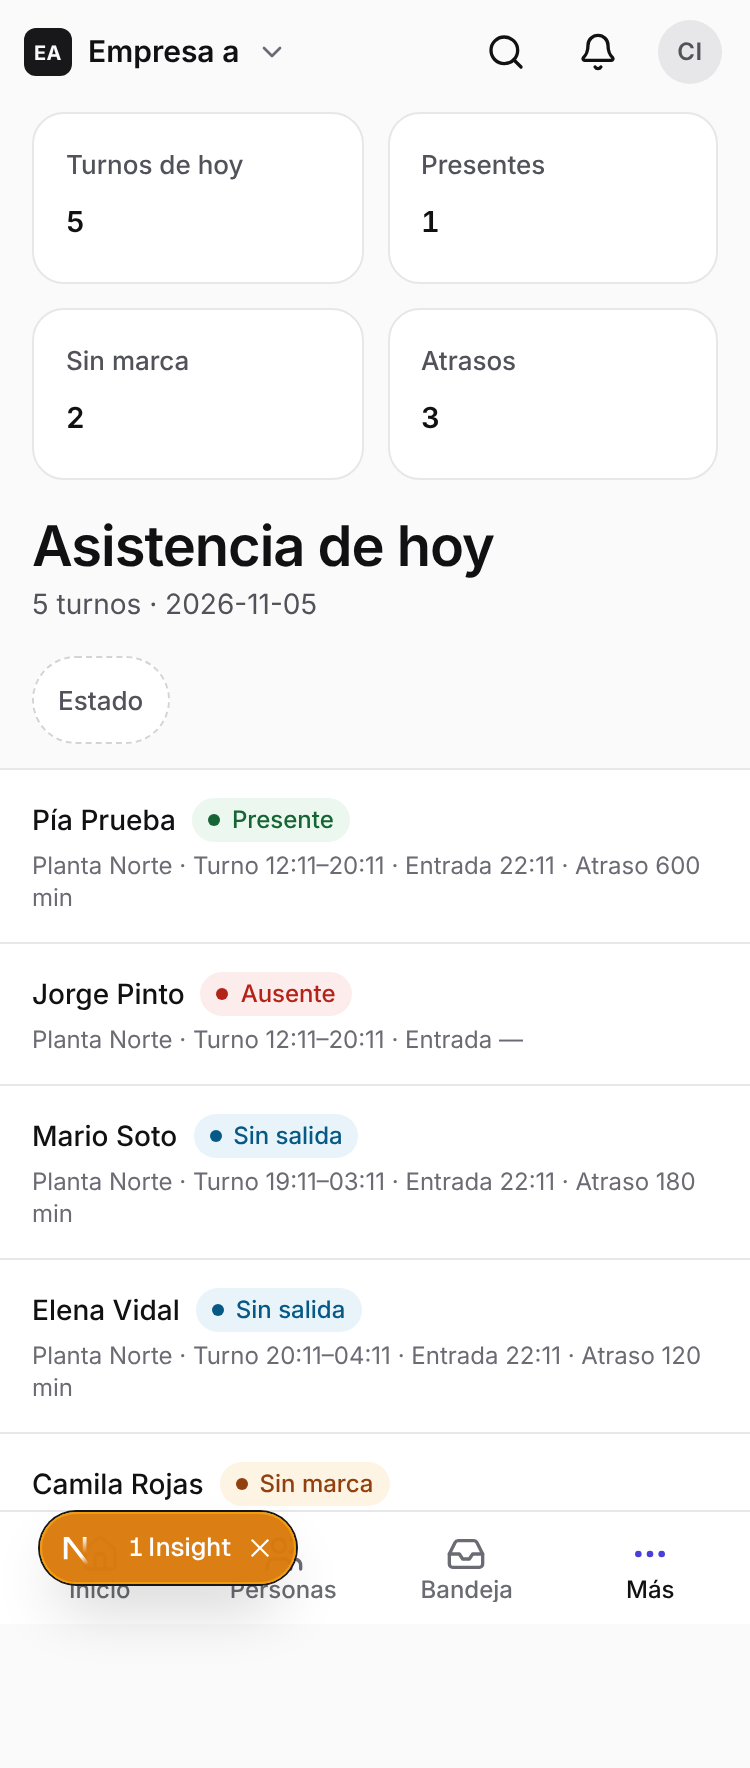
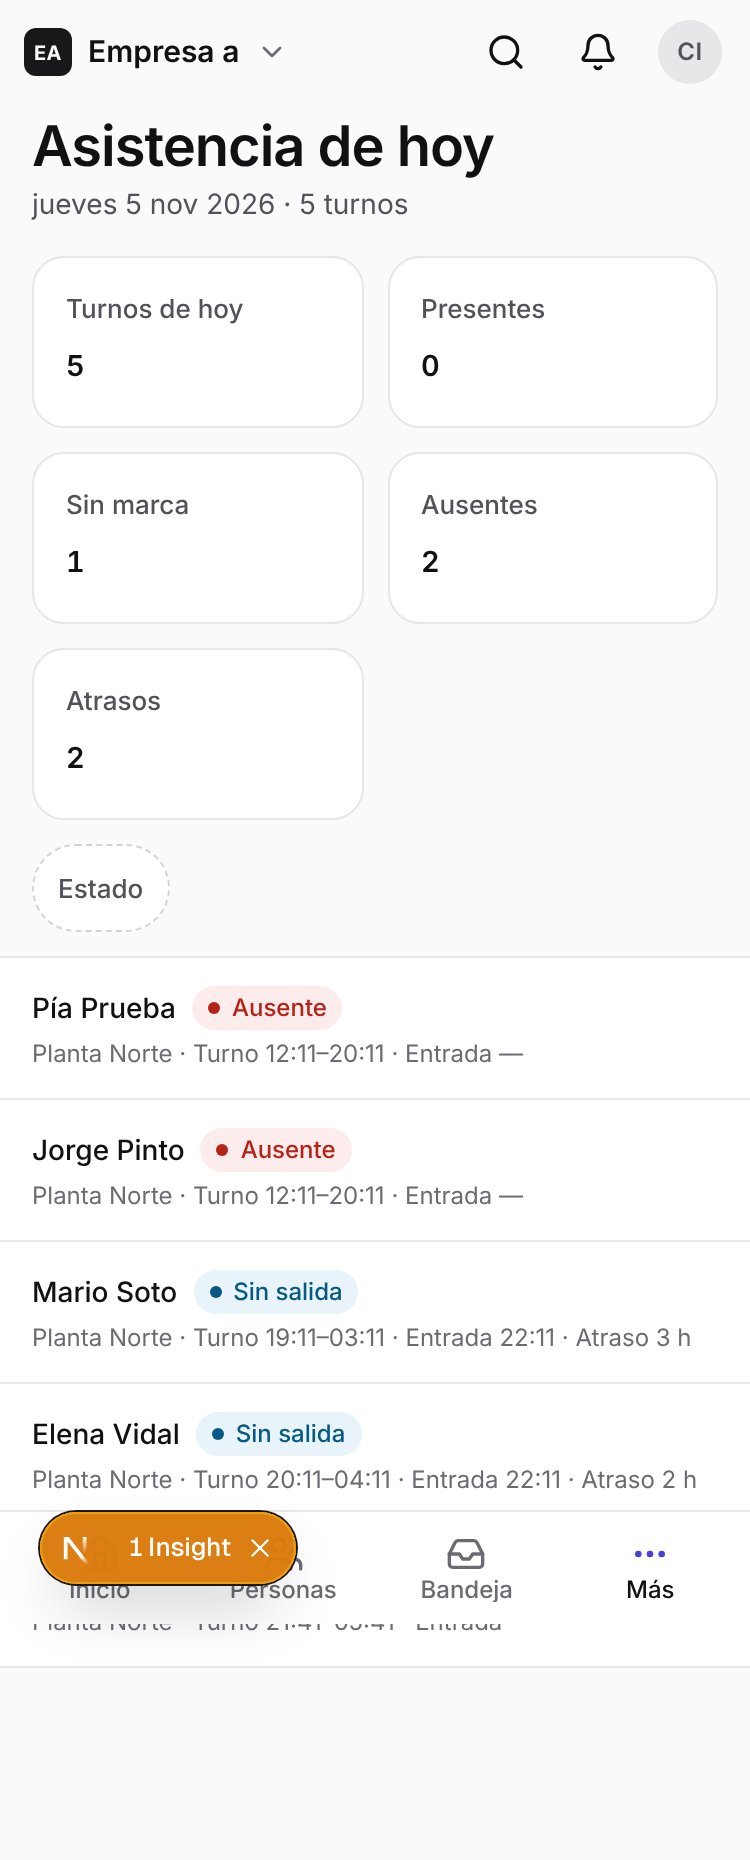
asistencia: ajustes del OK visual de «Asistencia de hoy» (tarjetas separadas, título arriba, fecha larga, atraso en horas, entrada tras el fin del turno no cuenta)
Claude-Session: https://claude.ai/code/session_012Xsh3qDJsFCJenV1QnWYCq

diff --git a/apps/web/app/(erp)/asistencia/page.tsx b/apps/web/app/(erp)/asistencia/page.tsx
@@ -28,6 +28,36 @@ const ESTADOS: Record<string, { etiqueta: string; tono: "success" | "warning" | 
   sin_turno: { etiqueta: "Sin turno", tono: "neutro" },
 };
 const OPCIONES = Object.entries(ESTADOS).filter(([k]) => k !== "sin_turno").map(([valor, e]) => ({ valor, etiqueta: e.etiqueta }));
+function Kpis({ r, className }: { r: Datos["resumen"]; className: string }) {
+  return (
+    <div className={className}>
+      <KpiTile etiqueta="Turnos de hoy" valor={String(r.turnos)} />
+      <KpiTile etiqueta="Presentes" valor={String(r.presentes)} />
+      <KpiTile etiqueta="Sin marca" valor={String(r.sinMarca)} />
+      <KpiTile etiqueta="Ausentes" valor={String(r.ausentes)} />
+      <KpiTile etiqueta="Atrasos" valor={String(r.atrasos)} />
+    </div>
+  );
+}
+
+/** «jueves 5 nov 2026» en la zona de la empresa. */
+function fechaLarga(iso: string, zona: string): string {
+  const p = Object.fromEntries(
+    new Intl.DateTimeFormat("es-CL", { weekday: "long", day: "numeric", month: "short", year: "numeric", timeZone: zona })
+      .formatToParts(new Date(`${iso}T12:00:00Z`))
+      .map((x) => [x.type, x.value]),
+  );
+  return `${p["weekday"]} ${p["day"]} ${String(p["month"]).replace(".", "")} ${p["year"]}`;
+}
+
+/** 600 → «10 h»; 150 → «2 h 30 min»; 45 → «45 min». */
+function duracion(min: number): string {
+  const h = Math.floor(min / 60);
+  const m = min % 60;
+  if (h === 0) return `${m} min`;
+  return m === 0 ? `${h} h` : `${h} h ${m} min`;
+}
+
 const formatoHora = (zona: string) => new Intl.DateTimeFormat("es-CL", { timeStyle: "short", hourCycle: "h23", timeZone: zona });
 
 /** «Asistencia de hoy» (A3): presentes, sin marca, atrasos y correcciones pendientes de los turnos del día. */
@@ -49,19 +79,17 @@ export default function AsistenciaHoy({ searchParams }: Props) {
         const h = (v: string | null) => (v ? hora.format(new Date(v)) : "—");
         return (
           <div className="flex flex-col gap-4">
-            {d ? (
-              <div className="grid grid-cols-2 gap-3 md:grid-cols-4">
-                <KpiTile etiqueta="Turnos de hoy" valor={String(d.resumen.turnos)} />
-                <KpiTile etiqueta="Presentes" valor={String(d.resumen.presentes)} />
-                <KpiTile etiqueta="Sin marca" valor={String(d.resumen.sinMarca + d.resumen.ausentes)} />
-                <KpiTile etiqueta="Atrasos" valor={String(d.resumen.atrasos)} />
-              </div>
-            ) : null}
+            {d ? <Kpis r={d.resumen} className="hidden grid-cols-5 gap-3 md:grid" /> : null}
             <ListScreen<Item>
               state={estadoPantalla(r)}
               titulo="Asistencia de hoy"
-              subtitulo={d ? `${d.resumen.turnos} turnos · ${d.fecha}` : undefined}
-              filtros={<ChipsFiltro filtros={[{ param: "estado", etiqueta: "Estado", opciones: OPCIONES }]} />}
+              subtitulo={d ? `${fechaLarga(d.fecha, d.zona)} · ${d.resumen.turnos} turnos` : undefined}
+              filtros={
+                <div className="flex w-full flex-col gap-3">
+                  {d ? <Kpis r={d.resumen} className="grid grid-cols-2 gap-3 md:hidden" /> : null}
+                  <ChipsFiltro filtros={[{ param: "estado", etiqueta: "Estado", opciones: OPCIONES }]} />
+                </div>
+              }
               items={d?.items ?? []}
               clave={(x) => x.personaId}
               tarjeta={(x) => (
@@ -72,7 +100,7 @@ export default function AsistenciaHoy({ searchParams }: Props) {
                   </span>
                   <span className="t-caption">
                     {x.instalacion ?? "Sin instalación"} · Turno {h(x.turnoInicio)}–{h(x.turnoFin)} · Entrada {h(x.entrada)}
-                    {x.atrasoMin > 0 ? ` · Atraso ${x.atrasoMin} min` : ""}
+                    {x.atrasoMin > 0 ? ` · Atraso ${duracion(x.atrasoMin)}` : ""}
                     {x.correccionPendiente ? " · Corrección pendiente" : ""}
                   </span>
                 </span>
@@ -83,7 +111,7 @@ export default function AsistenciaHoy({ searchParams }: Props) {
                 { id: "turno", etiqueta: "Turno", render: (x) => `${h(x.turnoInicio)}–${h(x.turnoFin)}` },
                 { id: "entrada", etiqueta: "Entrada", render: (x) => h(x.entrada) },
                 { id: "salida", etiqueta: "Salida", render: (x) => h(x.salida) },
-                { id: "atraso", etiqueta: "Atraso", render: (x) => (x.atrasoMin > 0 ? `${x.atrasoMin} min` : "—") },
+                { id: "atraso", etiqueta: "Atraso", render: (x) => (x.atrasoMin > 0 ? duracion(x.atrasoMin) : "—") },
                 {
                   id: "estado", etiqueta: "Estado",
                   render: (x) => (

diff --git a/modules/asistencia/domain/consolidar.ts b/modules/asistencia/domain/consolidar.ts
@@ -34,7 +34,8 @@ const porHora = (a: MarcaEfectiva, b: MarcaEfectiva) => a.hora.getTime() - b.hor
 /** Primera entrada y última salida del día; sin redondeo (art. 44). */
 export function consolidarDia(e: EntradaConsolidar): DiaConsolidado {
   const orden = [...e.marcas].sort(porHora);
-  const entrada = orden.find((m) => m.tipo === "entrada")?.hora ?? null;
+  // Una entrada marcada cuando el turno ya terminó no cuenta para ese turno: llegar después del fin no es estar presente.
+  const entrada = orden.find((m) => m.tipo === "entrada" && (!e.turno || m.hora < e.turno.fin))?.hora ?? null;
   const salida = [...orden].reverse().find((m) => m.tipo === "salida" && (!entrada || m.hora > entrada))?.hora ?? null;
   const atraso = e.turno && entrada ? atrasoSegundos(e.turno.inicio, entrada) : 0;
   const extra = e.turno && salida ? sobretiempoSegundos(e.turno.fin, salida) : 0;

diff --git a/modules/asistencia/domain/consolidar.test.ts b/modules/asistencia/domain/consolidar.test.ts
@@ -24,6 +24,10 @@ describe("consolidarDia", () => {
     const d = consolidarDia({ ...base, ahora: t("21:00"), marcas: [], ausenciaRegistrada: "L.M." });
     expect(d).toMatchObject({ estado: "ausente", sigla: "L.M." });
   });
+  it("una entrada después del fin del turno no cuenta: el día queda ausente, sin atraso", () => {
+    const d = consolidarDia({ ...base, ahora: t("23:00"), marcas: [{ tipo: "entrada", hora: new Date("2026-12-01T22:11:00Z") }, { tipo: "salida", hora: new Date("2026-12-01T22:11:30Z") }] });
+    expect(d).toMatchObject({ estado: "ausente", sigla: "S.A.", segundosAtraso: 0, minutosTrabajados: 0 });
+  });
   it("sin turno ni marcas el día no existe", () => {
     expect(consolidarDia({ ...base, turno: null, ahora: t("21:00"), marcas: [] }).estado).toBe("sin_turno");
   });
